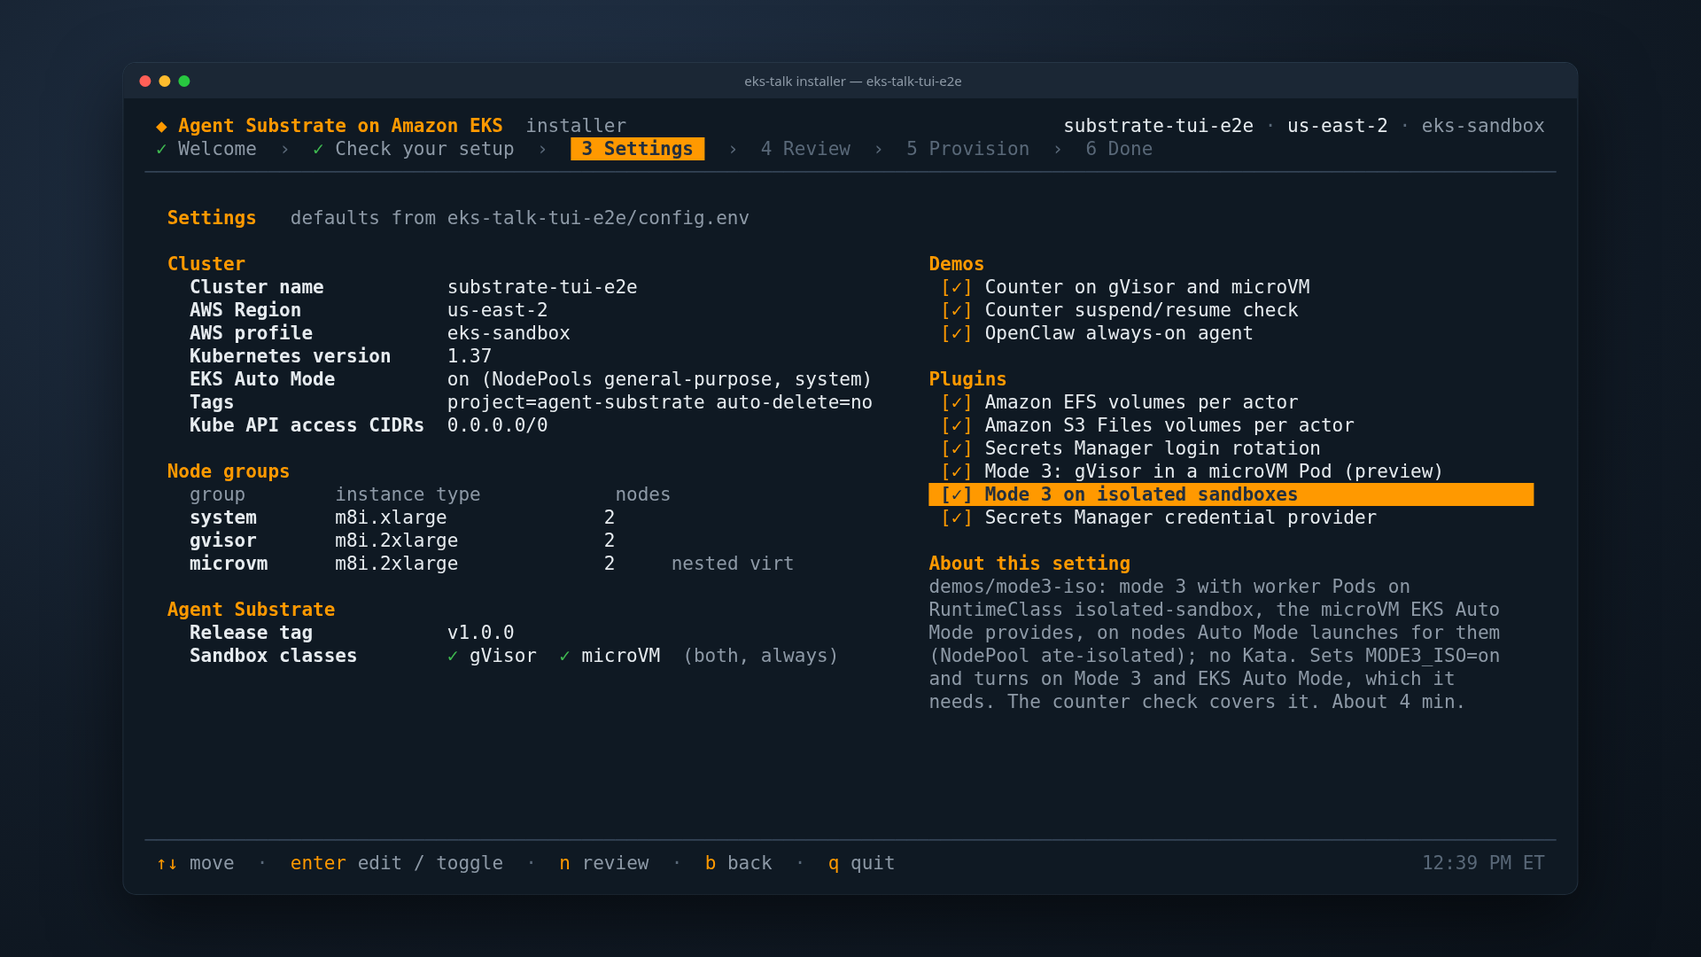
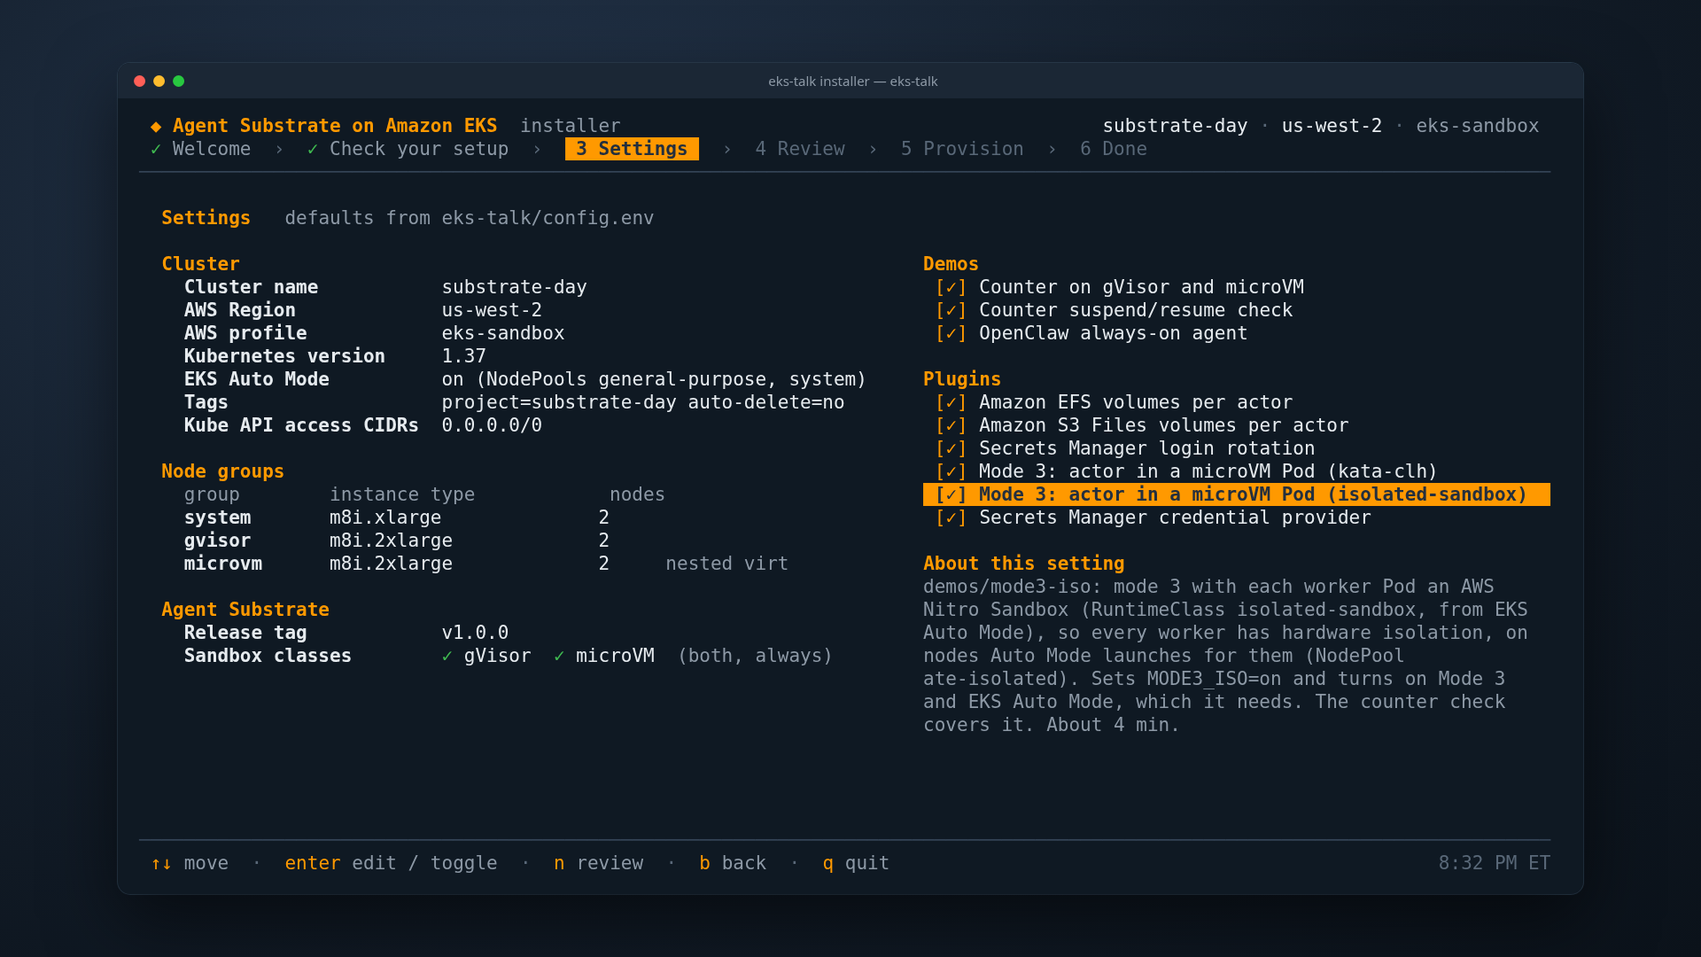
slides: mode 3 on AWS Nitro Sandbox
Mode 3 is shown as AWS Nitro Sandbox worker Pods with hardware isolation,
next to gVisor (soft isolation) and microVM (VM isolation), without Kata
or the gVisor sandbox inside it. Refreshes the splash and installer GIFs.

diff --git a/slides/index.html b/slides/index.html
@@ -169,7 +169,7 @@
     <div>
       <ol>
         <li>Agent Substrate and its architecture on AWS</li>
-        <li>Cluster, gVisor, microVM, proposed third mode</li>
+        <li>Cluster, gVisor, microVM, mode 3 on AWS Nitro Sandbox</li>
         <li>Snapshots on S3, IAM roles, state on RDS</li>
         <li>Secrets, Bedrock and per-actor volumes</li>
         <li>Two demos, lessons, production checklist</li>
@@ -190,7 +190,7 @@
       <li>What Agent Substrate is, and how it <b>maps onto AWS</b>.</li>
       <li>Then the pieces, one at a time:
         <ul>
-          <li>the cluster on <b>EKS 1.37</b> and its <b>two sandbox classes</b>, gVisor and microVM, plus a <b>proposed third mode</b></li>
+          <li>the cluster on <b>EKS 1.37</b> and its <b>two sandbox classes</b>, gVisor and microVM, plus a <b>third mode on AWS Nitro Sandbox</b></li>
           <li>snapshots on S3, and <b>one IAM role per component</b></li>
           <li>state on RDS, with <b>rotating logins</b></li>
           <li>actor secrets and Bedrock, through the <b>egress gateway</b></li>
@@ -538,22 +538,22 @@
       <li>Its memory snapshot is <b>restored on demand with userfaultfd</b>, and its guest assets come from the S3 asset bucket.</li>
       <li>The <b>ActorTemplate looks the same</b> for both. The WorkerPool's <code>sandboxClasses</code> picks which one a workload gets.</li>
     </ul>
-    <p><i>Next:</i> a 3rd mode, the installer's opening animation.</p>
+    <p><i>Next:</i> a 3rd mode on AWS Nitro Sandbox, the installer's opening animation.</p>
   </aside>
 </section>
 
 <!-- 7a -->
 <section class="slide">
-  <h2>gVisor, microVM, and a 3rd mode: microVM+gVisor</h2>
+  <h2>gVisor, microVM, and a 3rd mode on AWS Nitro Sandbox</h2>
   <div class="fill">
-    <img src="splash.gif" style="background:none; width:1440px; image-rendering:pixelated" alt="The installer's opening animation: the Agent Substrate mascot, the title, and actors dropping onto gVisor, microVM and microVM+gVisor nodes in an Amazon EKS cluster">
+    <img src="splash.gif" style="background:none; width:1440px; image-rendering:pixelated" alt="The installer's opening animation: the Agent Substrate mascot, the title, and actors dropping onto gVisor, microVM and AWS Nitro Sandbox nodes in an Amazon EKS cluster">
   </div>
   <aside class="notes">
     <p>This is the <b>installer's opening animation</b>. <i>let it play once</i></p>
     <ul>
       <li>Actors drop onto <b>gVisor</b> nodes and <b>microVM</b> nodes, the two classes we just saw.</li>
-      <li>The <b>3rd mode, microVM+gVisor</b>, is new. <i>point at it</i></li>
-      <li>It runs gVisor actors <b>inside a microVM worker Pod</b>.</li>
+      <li>The <b>3rd mode</b> is new. <i>point at it</i></li>
+      <li>Each worker Pod is its own <b>AWS Nitro Sandbox</b>, with <b>hardware isolation</b>.</li>
     </ul>
     <p><i>Next:</i> the installer this animation opens.</p>
   </aside>
@@ -592,20 +592,20 @@
       <li><i>The loop walks the six screens in order, about 40 seconds; talk through each step as it comes up.</i></li>
       <li>It is the <b>fastest way to deploy</b>; the same scripts still run on their own.</li>
     </ul>
-    <p><i>Next:</i> a proposed third mode, and how it works.</p>
+    <p><i>Next:</i> the third mode, on AWS Nitro Sandbox.</p>
   </aside>
 </section>
 
 <!-- 7b -->
 <section class="slide">
-  <h2>Proposal: a third mode, gVisor inside a microVM Pod <span class="tag">upstream proposal</span></h2>
+  <h2>A third mode: each worker Pod is an AWS Nitro Sandbox <span class="tag">upstream proposal</span></h2>
   <div class="fill">
-    <svg viewBox="0 0 1720 560" role="img" aria-label="Three nested stacks. gVisor today: an EC2 node holds atelet and a regular worker Pod, which holds a gVisor sandbox, which holds the actor; one boundary. microVM today: an EC2 node with nested virtualization holds atelet and a regular worker Pod with /dev/kvm, which holds a Cloud Hypervisor microVM, which holds the actor; one boundary. Proposed mode 3: the worker Pod itself is a Kata microVM on RuntimeClass kata, reached by atelet over mutual TLS on port 8087, and inside it a gVisor sandbox holds the actor; two boundaries.">
+    <svg viewBox="0 0 1720 560" role="img" aria-label="Three stacks. gVisor today: an EC2 node holds atelet and a regular worker Pod, which holds a gVisor sandbox, which holds the actor; soft isolation by a userspace kernel. microVM today: an EC2 node holds atelet and a regular worker Pod with /dev/kvm, which holds a Cloud Hypervisor microVM with its own guest kernel, which holds the actor; VM isolation. Proposed mode 3: an EC2 node that EKS Auto Mode launches holds atelet and worker Pods, each one an AWS Nitro Sandbox on RuntimeClass isolated-sandbox, reached by atelet over mutual TLS on port 8087, and the actor runs inside it; hardware isolation.">
       <defs><marker id="m3a" viewBox="0 0 10 10" refX="5" refY="5" markerWidth="6" markerHeight="6" orient="auto-start-reverse"><path d="M0,0 L10,5 L0,10 z" fill="context-stroke"/></marker></defs>
       <rect x="1160" y="1" width="558" height="558" rx="18" fill="#1d2733" stroke="#ff9900" stroke-width="2.5"/>
       <g font-size="21">
         <!-- gVisor -->
-        <text x="15" y="40"><tspan fill="#3ecf8e" font-weight="700" font-size="26">gVisor</tspan><tspan dx="12" fill="#9aa7b4" font-size="20">v1.0.0</tspan></text>
+        <text x="15" y="40"><tspan fill="#3ecf8e" font-weight="700" font-size="26">1 · gVisor</tspan><tspan dx="12" fill="#9aa7b4" font-size="20">v1.0.0</tspan></text>
         <rect x="15" y="64" width="530" height="424" rx="14" fill="#161d26" stroke="#ff9900" stroke-width="2"/>
         <text x="37" y="98"><tspan fill="#ff9900" font-weight="700">EC2 node</tspan><tspan dx="12" fill="#9aa7b4" font-size="18">gVisor node group</tspan></text>
         <rect x="37" y="116" width="140" height="44" rx="10" fill="#0b1016" stroke="#9aa7b4" stroke-width="1.5"/>
@@ -622,10 +622,10 @@
         <rect x="75" y="344" width="410" height="90" rx="12" fill="#0b1016" stroke="#4aa3ff" stroke-width="2"/>
         <text x="97" y="384" fill="#4aa3ff" font-weight="700">actor</text>
         <text x="97" y="410" fill="#9aa7b4" font-size="17">the agent's own processes</text>
-        <text x="280" y="530" text-anchor="middle"><tspan fill="#e8edf2" font-weight="700">1 boundary</tspan><tspan fill="#9aa7b4">: gVisor</tspan></text>
+        <text x="280" y="530" text-anchor="middle"><tspan fill="#3ecf8e" font-weight="700">soft isolation</tspan><tspan fill="#9aa7b4">: a userspace kernel</tspan></text>
 
         <!-- microVM -->
-        <text x="595" y="40"><tspan fill="#b18cff" font-weight="700" font-size="26">microVM</tspan><tspan dx="12" fill="#9aa7b4" font-size="20">v1.0.0</tspan></text>
+        <text x="595" y="40"><tspan fill="#b18cff" font-weight="700" font-size="26">2 · microVM</tspan><tspan dx="12" fill="#9aa7b4" font-size="20">v1.0.0</tspan></text>
         <rect x="595" y="64" width="530" height="424" rx="14" fill="#161d26" stroke="#ff9900" stroke-width="2"/>
         <text x="617" y="98"><tspan fill="#ff9900" font-weight="700">EC2 node</tspan><tspan dx="12" fill="#9aa7b4" font-size="18">nested virtualization on</tspan></text>
         <rect x="617" y="116" width="140" height="44" rx="10" fill="#0b1016" stroke="#9aa7b4" stroke-width="1.5"/>
@@ -642,64 +642,46 @@
         <rect x="655" y="344" width="410" height="90" rx="12" fill="#0b1016" stroke="#4aa3ff" stroke-width="2"/>
         <text x="677" y="384" fill="#4aa3ff" font-weight="700">actor</text>
         <text x="677" y="410" fill="#9aa7b4" font-size="17">the agent's own processes</text>
-        <text x="860" y="530" text-anchor="middle"><tspan fill="#e8edf2" font-weight="700">1 boundary</tspan><tspan fill="#9aa7b4">: the VM</tspan></text>
+        <text x="860" y="530" text-anchor="middle"><tspan fill="#b18cff" font-weight="700">VM isolation</tspan><tspan fill="#9aa7b4">: its own guest kernel</tspan></text>
 
         <!-- mode 3 -->
-        <text x="1175" y="40"><tspan fill="#ff9900" font-weight="700" font-size="26">gVisor in a microVM Pod</tspan><tspan dx="12" fill="#9aa7b4" font-size="20">proposed</tspan></text>
+        <text x="1175" y="40"><tspan fill="#ff9900" font-weight="700" font-size="26">3 · AWS Nitro Sandbox</tspan></text>
         <rect x="1175" y="64" width="530" height="424" rx="14" fill="#161d26" stroke="#ff9900" stroke-width="2"/>
-        <text x="1197" y="98"><tspan fill="#ff9900" font-weight="700">EC2 node</tspan><tspan dx="12" fill="#9aa7b4" font-size="18">nested virtualization on</tspan></text>
+        <text x="1197" y="98"><tspan fill="#ff9900" font-weight="700">EC2 node</tspan><tspan dx="12" fill="#9aa7b4" font-size="18">launched by EKS Auto Mode</tspan></text>
         <rect x="1197" y="116" width="140" height="44" rx="10" fill="#0b1016" stroke="#9aa7b4" stroke-width="1.5"/>
         <text x="1267" y="145" text-anchor="middle" fill="#e8edf2" font-weight="700" font-size="20">atelet</text>
         <path d="M1267 162 V202" stroke="#ff9900" stroke-width="2.5" marker-start="url(#m3a)" marker-end="url(#m3a)"/>
         <text x="1357" y="134" fill="#ff9900" font-size="18" font-weight="700">mutual TLS, port 8087</text>
-        <text x="1357" y="156" fill="#9aa7b4" font-size="16">Pod network, staging service</text>
-        <rect x="1195" y="206" width="490" height="264" rx="12" fill="#0b1016" stroke="#b18cff" stroke-width="3"/>
-        <text x="1217" y="236" fill="#b18cff" font-weight="700">worker Pod is a microVM</text>
-        <text x="1217" y="258" fill="#9aa7b4" font-size="17">Kata on Cloud Hypervisor · RuntimeClass kata</text>
-        <rect x="1215" y="274" width="450" height="178" rx="12" fill="#161d26" stroke="#3ecf8e" stroke-width="3"/>
-        <text x="1237" y="304" fill="#3ecf8e" font-weight="700">gVisor sandbox</text>
-        <text x="1237" y="326" fill="#9aa7b4" font-size="17">runsc, inside the guest kernel</text>
-        <rect x="1235" y="344" width="410" height="90" rx="12" fill="#0b1016" stroke="#4aa3ff" stroke-width="2"/>
-        <text x="1257" y="384" fill="#4aa3ff" font-weight="700">actor</text>
-        <text x="1257" y="410" fill="#9aa7b4" font-size="17">the agent's own processes</text>
-        <text x="1440" y="530" text-anchor="middle"><tspan fill="#ff9900" font-weight="700">2 boundaries</tspan><tspan fill="#9aa7b4">: the VM, then gVisor</tspan></text>
+        <text x="1357" y="156" fill="#9aa7b4" font-size="16">over the Pod network</text>
+        <rect x="1195" y="206" width="490" height="264" rx="12" fill="#0b1016" stroke="#ffd166" stroke-width="3"/>
+        <text x="1217" y="236" fill="#ffd166" font-weight="700">worker Pod is a Nitro sandbox</text>
+        <text x="1217" y="258" fill="#9aa7b4" font-size="17">RuntimeClass isolated-sandbox</text>
+        <rect x="1235" y="324" width="410" height="110" rx="12" fill="#161d26" stroke="#4aa3ff" stroke-width="2"/>
+        <text x="1257" y="370" fill="#4aa3ff" font-weight="700">actor</text>
+        <text x="1257" y="398" fill="#9aa7b4" font-size="17">the agent's own processes</text>
+        <text x="1440" y="530" text-anchor="middle"><tspan fill="#ff9900" font-weight="700">hardware isolation</tspan><tspan fill="#9aa7b4">: AWS Nitro</tspan></text>
       </g>
     </svg>
   </div>
-  <div class="grid2" style="flex:0;margin-top:1.2rem;align-items:stretch;grid-template-columns:1fr 1.6fr">
-<pre><code><span class="k">apiVersion</span>: ate.dev/v1
-<span class="k">kind</span>: WorkerPool
-<span class="k">spec</span>:
-  <span class="k">sandboxClasses</span>:
-  - name: gvisor          <span class="c"># gVisor class only</span>
-  <span class="k">networkTransport</span>:       <span class="c"># NetworkWorkers preview gate</span>
-    <span class="k">runtimeClassName</span>: <span class="s">kata</span></code></pre>
-    <div class="card roomy watch">
-      <h3>Why it matters</h3>
-      <ul>
-        <li><b>Defense in depth:</b> a gVisor escape lands in the guest kernel, not on the node or in other Pods</li>
-        <li>Images from the proposal branch: <code>ghcr.io/csantanapr/substrate</code></li>
-        <li>Try it: the installer's <b>Mode 3</b> plugin adds Kata to the microVM nodes</li>
-      </ul>
-    </div>
-  </div>
+  <p class="muted" style="margin:.8rem 0 0">Mode 3 runs on images from the proposal branch, <code>ghcr.io/csantanapr/substrate</code>. The installer turns it on.</p>
   <aside class="notes">
-    <p>This is a <b>proposal for upstream</b>, not part of v1.0.0: a third mode that <b>stacks both boundaries</b>.</p>
+    <p>Mode 3 is a <b>proposal for upstream</b>, not part of v1.0.0. The worker Pod itself runs as an <b>AWS Nitro Sandbox</b>.</p>
     <ul>
-      <li><i>point at the right column</i> The worker Pod itself runs as a <b>Kata microVM</b> on Cloud Hypervisor, on the nested-virtualization node group, and inside that guest the worker runs actors with <b>gVisor</b>.</li>
-      <li>That is <b>defense in depth</b>: a gVisor escape still lands in the microVM's guest kernel, not on the node or in another tenant's Pod.</li>
-      <li>You turn it on per WorkerPool with <code>networkTransport.runtimeClassName: kata</code>, for the gVisor class, behind the <code>NetworkWorkers</code> preview gate.</li>
-      <li>The guest can't see the node's files, so atelet reaches the worker over <b>mutual TLS on the Pod network</b>, through the <code>atelet-workers</code> Service on port 8087, and moves sandbox assets and snapshots through a <b>staging service</b>.</li>
+      <li><i>point at the left two columns</i> The two modes in v1.0.0: <b>gVisor is soft isolation</b>, a userspace kernel; <b>microVM is VM isolation</b>, Cloud Hypervisor with its own guest kernel.</li>
+      <li><i>point at the right column</i> In mode 3, <b>each worker Pod is its own Nitro sandbox</b>, on RuntimeClass <code>isolated-sandbox</code>. That is <b>hardware isolation</b> from AWS Nitro, per Pod.</li>
+      <li>EKS Auto Mode launches the nodes for these Pods. <b>No node group and no extra runtime</b> to install.</li>
+      <li>The sandbox can't see the node's files, so atelet reaches the worker over <b>mutual TLS on the Pod network</b>, through the <code>atelet-workers</code> Service on port 8087, and moves sandbox assets and snapshots through a <b>staging service</b>.</li>
+      <li><i>Only if asked:</i> the WorkerPool still names the <code>gvisor</code> sandbox class; <code>networkTransport.runtimeClassName</code> is what puts its workers in Nitro sandboxes, behind the <code>NetworkWorkers</code> preview gate.</li>
     </ul>
-    <p><i>Next:</i> the same mode on AWS Nitro Sandbox, with no Kata to install.</p>
+    <p><i>Next:</i> how mode 3 runs on EKS Auto Mode.</p>
   </aside>
 </section>
 
 <!-- 7c -->
 <section class="slide">
-  <h2>Mode 3 on AWS Nitro Sandbox: each worker Pod gets its own kernel</h2>
+  <h2>Mode 3 on AWS Nitro Sandbox: hardware isolation per worker Pod</h2>
   <div class="fill">
-    <svg viewBox="0 0 1720 560" role="img" aria-label="A Pending worker Pod asks for RuntimeClass isolated-sandbox. EKS Auto Mode's built-in Karpenter, through NodePool ate-isolated, launches an EC2 node for it. On that node atelet reaches two worker Pods over mutual TLS on port 8087. Each worker Pod is an AWS Nitro Sandbox with its own guest kernel, and inside it a gVisor sandbox holds the actor; two boundaries.">
+    <svg viewBox="0 0 1720 560" role="img" aria-label="A Pending worker Pod asks for RuntimeClass isolated-sandbox. EKS Auto Mode's built-in Karpenter, through NodePool ate-isolated, launches an EC2 node for it. On that node atelet reaches two worker Pods over mutual TLS on port 8087. Each worker Pod is an AWS Nitro Sandbox, with hardware isolation, and runs an actor.">
       <defs><marker id="nsa" viewBox="0 0 10 10" refX="5" refY="5" markerWidth="6" markerHeight="6" orient="auto-start-reverse"><path d="M0,0 L10,5 L0,10 z" fill="context-stroke"/></marker></defs>
       <g font-size="21">
         <!-- Pending Pod -->
@@ -707,7 +689,7 @@
         <text x="37" y="100" fill="#e8edf2" font-weight="700">1 · worker Pod, Pending</text>
         <text x="37" y="138" fill="#ffd166" font-size="19">runtimeClassName: isolated-sandbox</text>
         <text x="37" y="168" fill="#9aa7b4" font-size="18">nodeSelector ate.dev/pool=isolated</text>
-        <text x="37" y="196" fill="#9aa7b4" font-size="18">the gVisor class, 2 GiB per worker</text>
+        <text x="37" y="196" fill="#9aa7b4" font-size="18">2 GiB per worker</text>
         <path d="M250 258 V298" stroke="#9aa7b4" stroke-width="2.5" marker-end="url(#nsa)"/>
 
         <!-- Auto Mode -->
@@ -717,7 +699,7 @@
         <text x="37" y="408" fill="#9aa7b4" font-size="18">NodePool ate-isolated</text>
         <text x="37" y="436" fill="#9aa7b4" font-size="18">picks the instance and launches it</text>
         <path d="M489 396 H557" stroke="#ff9900" stroke-width="2.5" marker-end="url(#nsa)"/>
-        <text x="250" y="530" text-anchor="middle" fill="#9aa7b4">no node group, no Kata install</text>
+        <text x="250" y="530" text-anchor="middle" fill="#9aa7b4">no node group to manage</text>
 
         <!-- node -->
         <rect x="565" y="64" width="1140" height="424" rx="14" fill="#161d26" stroke="#ff9900" stroke-width="2"/>
@@ -727,31 +709,25 @@
         <path d="M1100 162 L860 202" stroke="#ff9900" stroke-width="2.5" marker-end="url(#nsa)"/>
         <path d="M1200 162 L1420 202" stroke="#ff9900" stroke-width="2.5" marker-end="url(#nsa)"/>
         <text x="1262" y="134" fill="#ff9900" font-size="18" font-weight="700">mutual TLS, port 8087</text>
-        <text x="1262" y="156" fill="#9aa7b4" font-size="16">Pod network, as in mode 3</text>
+        <text x="1262" y="156" fill="#9aa7b4" font-size="16">over the Pod network</text>
 
         <!-- worker Pod A -->
         <rect x="585" y="206" width="540" height="264" rx="12" fill="#0b1016" stroke="#ffd166" stroke-width="3"/>
         <text x="607" y="236" fill="#ffd166" font-weight="700">worker Pod is a Nitro sandbox</text>
-        <text x="607" y="258" fill="#9aa7b4" font-size="17">its own guest kernel</text>
-        <rect x="605" y="274" width="500" height="178" rx="12" fill="#161d26" stroke="#3ecf8e" stroke-width="3"/>
-        <text x="627" y="304" fill="#3ecf8e" font-weight="700">gVisor sandbox</text>
-        <text x="627" y="326" fill="#9aa7b4" font-size="17">runsc, inside the guest kernel</text>
-        <rect x="625" y="344" width="460" height="90" rx="12" fill="#0b1016" stroke="#4aa3ff" stroke-width="2"/>
-        <text x="647" y="384" fill="#4aa3ff" font-weight="700">actor</text>
-        <text x="647" y="410" fill="#9aa7b4" font-size="17">the agent's own processes</text>
+        <text x="607" y="258" fill="#9aa7b4" font-size="17">hardware isolation</text>
+        <rect x="625" y="324" width="460" height="110" rx="12" fill="#161d26" stroke="#4aa3ff" stroke-width="2"/>
+        <text x="647" y="370" fill="#4aa3ff" font-weight="700">actor</text>
+        <text x="647" y="398" fill="#9aa7b4" font-size="17">the agent's own processes</text>
 
         <!-- worker Pod B -->
         <rect x="1145" y="206" width="540" height="264" rx="12" fill="#0b1016" stroke="#ffd166" stroke-width="3"/>
         <text x="1167" y="236" fill="#ffd166" font-weight="700">worker Pod is a Nitro sandbox</text>
-        <text x="1167" y="258" fill="#9aa7b4" font-size="17">its own guest kernel</text>
-        <rect x="1165" y="274" width="500" height="178" rx="12" fill="#161d26" stroke="#3ecf8e" stroke-width="3"/>
-        <text x="1187" y="304" fill="#3ecf8e" font-weight="700">gVisor sandbox</text>
-        <text x="1187" y="326" fill="#9aa7b4" font-size="17">runsc, inside the guest kernel</text>
-        <rect x="1185" y="344" width="460" height="90" rx="12" fill="#0b1016" stroke="#4aa3ff" stroke-width="2"/>
-        <text x="1207" y="384" fill="#4aa3ff" font-weight="700">actor</text>
-        <text x="1207" y="410" fill="#9aa7b4" font-size="17">the agent's own processes</text>
+        <text x="1167" y="258" fill="#9aa7b4" font-size="17">hardware isolation</text>
+        <rect x="1185" y="324" width="460" height="110" rx="12" fill="#161d26" stroke="#4aa3ff" stroke-width="2"/>
+        <text x="1207" y="370" fill="#4aa3ff" font-weight="700">actor</text>
+        <text x="1207" y="398" fill="#9aa7b4" font-size="17">the agent's own processes</text>
 
-        <text x="1135" y="530" text-anchor="middle"><tspan fill="#ff9900" font-weight="700">2 boundaries</tspan><tspan fill="#9aa7b4">: the Nitro sandbox, then gVisor</tspan></text>
+        <text x="1135" y="530" text-anchor="middle"><tspan fill="#ff9900" font-weight="700">hardware isolation</tspan><tspan fill="#9aa7b4"> for every worker Pod</tspan></text>
       </g>
     </svg>
   </div>
@@ -759,27 +735,25 @@
 <pre><code><span class="k">apiVersion</span>: ate.dev/v1
 <span class="k">kind</span>: WorkerPool
 <span class="k">spec</span>:
-  <span class="k">sandboxClasses</span>:
-  - name: gvisor
   <span class="k">networkTransport</span>:
-    <span class="k">runtimeClassName</span>: <span class="s">isolated-sandbox</span>  <span class="c"># from Auto Mode</span></code></pre>
+    <span class="k">runtimeClassName</span>: <span class="s">isolated-sandbox</span>  <span class="c"># from EKS Auto Mode</span></code></pre>
     <div class="card roomy watch">
       <h3>Why it matters</h3>
       <ul>
-        <li><b>Hardware isolation per Pod:</b> each worker gets its own guest kernel on AWS Nitro</li>
+        <li><b>Hardware isolation per Pod:</b> each worker Pod is its own AWS Nitro Sandbox</li>
         <li><b>A Pending Pod is the request:</b> Auto Mode launches an instance that fits</li>
         <li>VPC networking, Pod Identity and network policies work as for any Pod</li>
-        <li>Try it: the installer's <b>Mode 3 on isolated sandboxes</b> plugin</li>
+        <li>Try it: the installer's <b>isolated-sandbox</b> Mode 3 plugin</li>
       </ul>
     </div>
   </div>
   <aside class="notes">
-    <p>The same mode 3, with the microVM coming from <b>AWS Nitro Sandbox</b> in EKS Auto Mode instead of Kata.</p>
+    <p>Mode 3 on <b>AWS Nitro Sandbox</b> in EKS Auto Mode.</p>
     <ul>
       <li><i>point at the left</i> The worker Pod asks for RuntimeClass <code>isolated-sandbox</code>, which <b>Auto Mode already provides</b>. While it is Pending, Auto Mode's built-in Karpenter <b>picks and launches an instance</b> that can run it.</li>
       <li>NodePool <code>ate-isolated</code> is a copy of the built-in <code>general-purpose</code> NodePool, with a label and a taint so <b>only worker Pods</b> land there.</li>
-      <li><i>point at the right</i> Each worker Pod runs in <b>its own Nitro sandbox, with its own guest kernel</b>, and the worker runs actors with <b>gVisor</b> inside it. Two boundaries, as on the previous slide.</li>
-      <li><b>No node group, no nested virtualization setup, no Kata install.</b> The Pods keep full VPC networking, EKS Pod Identity and network policies.</li>
+      <li><i>point at the right</i> Each worker Pod runs in <b>its own Nitro sandbox</b>: <b>hardware isolation</b> from AWS Nitro, per Pod.</li>
+      <li><b>No node group and no extra runtime to install.</b> The Pods keep full VPC networking, EKS Pod Identity and network policies.</li>
       <li>Several sandboxes share one instance, so a node holds many workers.</li>
       <li>It needs <b>EKS Auto Mode</b>; it does not run on managed node groups.</li>
     </ul>
@@ -795,7 +769,7 @@
       <ul>
         <li>Recent Intel families in us-west-2:<br><span class="pill">c7i</span><span class="pill">m7i</span><span class="pill">r7i</span><span class="pill">c8i</span><span class="pill">m8i</span><span class="pill">r8i</span><span class="pill">i7i</span><span class="pill">x8i</span></li>
         <li>Turned on per instance with <code>CpuOptions</code></li>
-        <li>No bare metal needed for Kata microVMs</li>
+        <li>No bare metal needed for microVMs</li>
         <li>Check a node for <code>/dev/kvm</code> and <code>vmx</code></li>
       </ul>
     </div>
